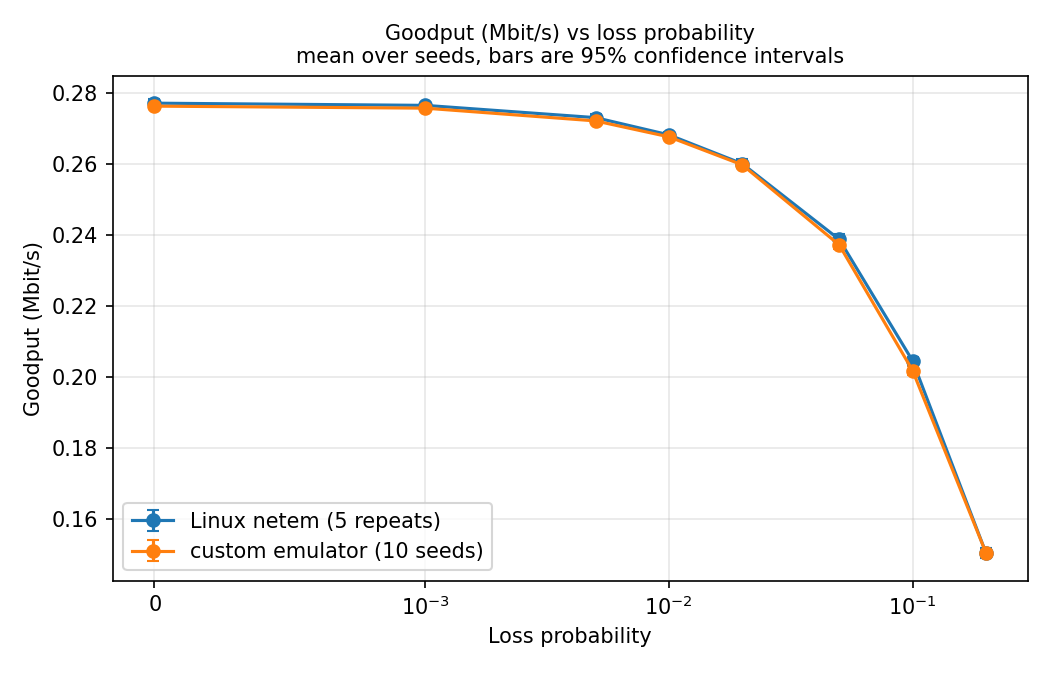
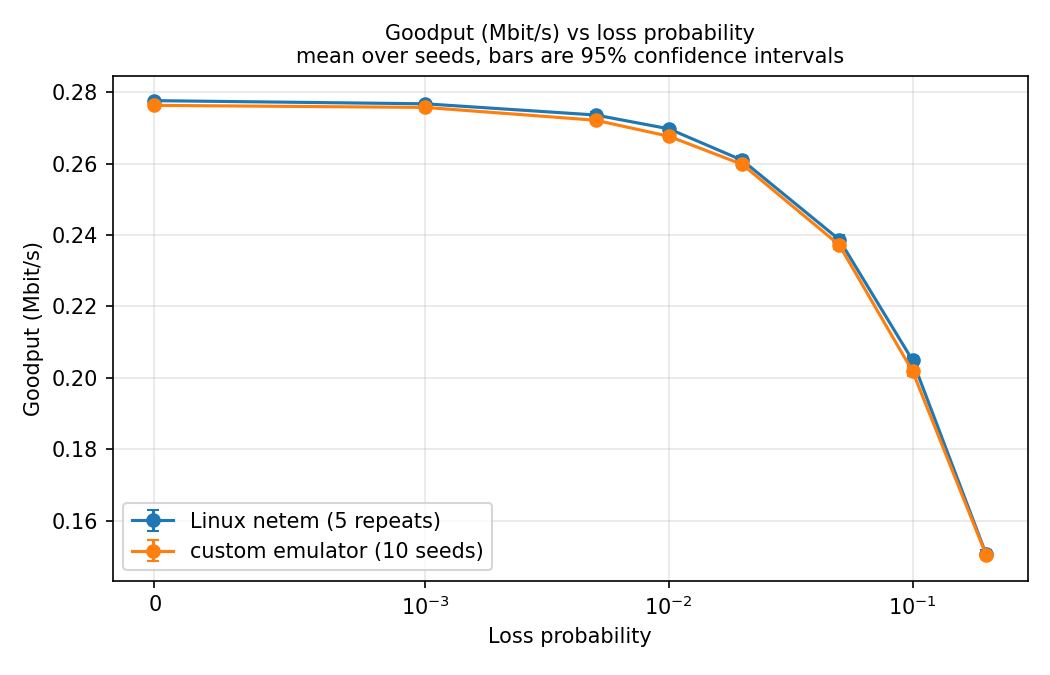
Regenerate the netem validation on the final build; update 3.10 and 4.5
The first netem run used a build from before #36, so data_sent, wire_bytes
and throughput_bps were wrong in all 40 rows. Rerun on 2a75718, the build
behind every other result: all 40 ok, data_sent = 5,992 + retransmissions.
Our emulator is within 1.5% of netem at every loss level, systematically
~0.5% slower; 95% intervals overlap at 3 of 8 levels. Sections 3.10 and
4.5 and figure 5 updated, plus Sohini's review points on chapter 4.

diff --git a/report/results.md b/report/results.md
@@ -21,7 +21,7 @@ $\pm5$ ms jitter, and 10 seeds per experimental cell. Plotted centres are
 arithmetic means of successful runs; error bars show two-sided **95%
 confidence intervals** using Student's $t$ distribution. Failed and corrupt
 runs were excluded and rerun. All reported results use the corrected-emulator
-datasets.
+datasets. All 890 final experiment runs completed with status `ok` and matching sent and received files (`file_match` true), so no run was excluded from the figures.
 
 ## 4.1 Experiment 1: goodput versus packet loss
 
@@ -51,7 +51,7 @@ and ACK-loss effects. The loss levels were 0, 0.1, 0.5, 1, 2, 5, 10, and 20%.
 
 ![Figure 1: Mean goodput versus loss](../figures/fig1_goodput_vs_loss.png)
 
-*Figure 1. Mean goodput of Stop-and-Wait, GBN, and SR against configured packet
+*Figure 1. Experiment 1 ($W = 32$, `fixed:1.5`, 8 MiB, delay 20 ms ± 5 ms). Mean goodput of Stop-and-Wait, GBN, and SR against configured packet
 loss, with $W=32$ for the windowed protocols. Error bars show 95% confidence
 intervals over 10 successful seeds per point.*
 
@@ -99,7 +99,7 @@ from a larger window. The tested window sizes were 1, 2, 4, 8, 16, 32,
 
 ![Figure 2: Mean goodput versus window size](../figures/fig2_goodput_vs_window.png)
 
-*Figure 2. Mean GBN and SR goodput versus $W$, separately at 1% and 5% loss.
+*Figure 2. Experiment 2 (loss 1% and 5%, `fixed:1.5`). Mean GBN and SR goodput versus $W$, separately at 1% and 5% loss.
 Error bars show 95% confidence intervals over 10 successful seeds per point.*
 
 **Results and discussion.** Experiment 2 investigated the effect of window size on GBN and SR's performance at 1% and 5% packet loss (Figure 2). With a window size of one both behaved like Stop-and-Wait, achieving approximately 0.27 Mbit/s at 1% loss. That confirmed correctness because neither windowed protocol could have more than one unacknowledged packet outstanding. Increasing the window initially improved goodput for both protocols by allowing multiple packets to remain in flight. The ideal reference goodput was calculated using W × 1,400 bytes × 8 / 41 ms, representing the maximum application-data rate possible with a given window and reference RTT, without loss-affected delays.
@@ -137,7 +137,7 @@ count should rise less sharply. The tested reorder probabilities were
 
 ![Figure 3: Retransmissions versus reordering](../figures/fig3_retx_vs_reorder.png)
 
-*Figure 3. Mean retransmission count for Stop-and-Wait, GBN, and SR versus
+*Figure 3. Experiment 3 (no loss, $W = 32$, `fixed:1.5`); symmetric-log axis. Mean retransmission count for Stop-and-Wait, GBN, and SR versus
 configured reordering probability, with $W=32$ for GBN and SR. Error bars
 show 95% confidence intervals over 10 successful seeds per point.*
 
@@ -174,29 +174,29 @@ release loop added around 2 ms per round trip, enough to influence the
 
 ![Figure 4: RTO policy and retransmissions](../figures/fig4_retx_vs_rto.png)
 
-*Figure 4. Mean total retransmissions by RTO policy for Stop-and-Wait, GBN,
+*Figure 4. Experiment 4 (2% loss, $W = 32$). Mean total retransmissions by RTO policy for Stop-and-Wait, GBN,
 and SR at 2% loss. Error bars show 95% confidence intervals over 10 successful
 seeds per point.*
 
-**Results and discussion.** Experiment 4 compared fixed and adaptive retransmission timeout policies under 2% packet loss (Figure 4). Retransmissions were classified using emulator traces into necessary retransmissions, early-timer retransmissions, lost-ACK retransmissions and retransmissions occurring after the relevant ACK had arrived. Necessary retransmissions represented packets which required recovery, and lost-ACK retransmissions occurred because the sender had not received the acknowledgement confirming successful delivery. Early-timer retransmissions occurred when the original transmission had succeeded, but the timeout expired before its ACK arrived. The additional after-ACK cases were associated with near-simultaneous timer and ACK processing, often separated by fractions of a millisecond, and were included when measuring RTO-related overhead. The table reports early-timer counts with these after-ACK cases included in parentheses.
+**Results and discussion.** Experiment 4 compared fixed and adaptive retransmission timeout policies under 2% packet loss (Figure 4). Retransmissions were classified using emulator traces into necessary retransmissions, early-timer retransmissions, lost-ACK retransmissions and retransmissions occurring after the relevant ACK had arrived. The `spurious.py` script replayed each emulator trace and, for every retransmission, identified which packet copy the receiver actually accepted. It then checked whether a covering ACK had been sent and was still in flight, had been sent and subsequently dropped, or had never been sent; the `ACK lost` category was assigned only when a covering ACK had been sent and dropped. Necessary retransmissions represented packets which required recovery, and lost-ACK retransmissions occurred because the sender had not received the acknowledgement confirming successful delivery. Early-timer retransmissions occurred when the original transmission had succeeded, but the timeout expired before its ACK arrived. The additional after-ACK cases were associated with near-simultaneous timer and ACK processing, often separated by fractions of a millisecond, and were included when measuring RTO-related overhead. The table reports early-timer counts with these after-ACK cases included in parentheses.
 
 | Protocol | Policy | Goodput | Early timer (+ after ACK) | ACK lost | Necessary |
 |---|---|---:|---:|---:|---:|
 | S&W | fixed:1.2 | 262 kbit/s | 130 (+34) | 129 | 123 |
 | S&W | fixed:1.5 / 2 / 3 | 260 / 255 / 246 kbit/s | 0 | 128 | 123 |
-| S&W | adaptive | 261 kbit/s | 20 (+3) | 128 | 123 |
-| GBN | fixed:1.2 | 5.17 Mbit/s | 3,035 (+358) | 2 | 3,742 |
-| GBN | fixed:1.5 | 4.32 Mbit/s | 60 | 2 | 5,282 |
-| GBN | fixed:3 | 2.62 Mbit/s | 16 | 0 | 5,314 |
-| GBN | adaptive | 4.63 Mbit/s | 690 (+55) | 2 | 4,974 |
+| S&W | adaptive | 261 kbit/s | 19 (+3) | 128 | 123 |
+| GBN | fixed:1.2 | 5.17 Mbit/s | 3,026 (+358) | 11 | 3,742 |
+| GBN | fixed:1.5 | 4.32 Mbit/s | 55 | 7 | 5,282 |
+| GBN | fixed:3 | 2.62 Mbit/s | 0 | 16 | 5,314 |
+| GBN | adaptive | 4.63 Mbit/s | 675 (+55) | 17 | 4,974 |
 | SR | fixed:1.2 | 5.21 Mbit/s | 1,440 (+336) | 132 | 123 |
 | SR | fixed:1.5 | 4.86 Mbit/s | 0 | 128 | 123 |
 | SR | fixed:3 | 3.24 Mbit/s | 0 | 128 | 123 |
 | SR | adaptive | 4.59 Mbit/s | 57 (+27) | 127 | 123 |
 
-The results partially confirmed the prediction that adaptive RTO would reduce unnecessary retransmissions. Compared with the aggressive `fixed:1.2` policy, adaptive RTO substantially reduced early-timer events: from 130 to 20 for S&W, 3,035 to 690 for GBN, and 1,440 to 57 for SR, excluding the separately reported after-ACK cases. However, adaptive RTO did not always outperform every fixed policy on this measure. The more conservative `fixed:1.5` and `fixed:3` policies produced few or no early-timer retransmissions, but at the cost of longer recovery delays which reduced goodput. Lost-ACK retransmissions were relatively stable across policies for S&W and SR (about 128 per run) because changing the timeout could not recover a missing acknowledgement without retransmission. GBN's much larger necessary-retransmission counts were due to its receiver discarding out-of-order packets, forcing later packets to be retransmitted even if their original copies had reached the receiver.
+The results partially confirmed the prediction that adaptive RTO would reduce unnecessary retransmissions. Compared with the aggressive `fixed:1.2` policy, adaptive RTO substantially reduced early-timer events: from 130 to 19 for S&W, 3,026 to 675 for GBN, and 1,440 to 57 for SR, excluding the separately reported after-ACK cases. However, adaptive RTO did not always outperform every fixed policy on this measure. The more conservative `fixed:1.5` and `fixed:3` policies produced few or no early-timer retransmissions, but at the cost of longer recovery delays which reduced goodput. Lost-ACK retransmissions were relatively stable across policies for S&W and SR (about 128 per run) because changing the timeout could not recover a missing acknowledgement without retransmission. GBN's much larger necessary-retransmission counts were due to its receiver discarding out-of-order packets, forcing later packets to be retransmitted even if their original copies had reached the receiver.
 
-The shortest timeout still delivered the highest goodput for all three protocols, for example 5.21 Mbit/s with SR's `fixed:1.2` compared with 4.86 Mbit/s at `fixed:1.5` and 3.24 Mbit/s at `fixed:3`. The longer timeout prevented premature retransmissions but delayed recovery from genuine losses, with about 33% lower goodput at `fixed:3` than at `fixed:1.5`. Adaptive RTO provided an intermediate trade-off with neither the highest goodput nor the fewest unnecessary retransmissions. The correction to the emulator had also materially changed these results: S&W at `fixed:1.2` produced 416 retransmissions with the corrected emulator, compared with 645 previously, and so approximately 230 of the earlier retransmissions were associated with emulator scheduling lateness. These results illustrate that preferred RTO policy depends on whether the goal is maximum useful-data rate or reduced retransmission overhead.
+The shortest timeout still delivered the highest goodput for all three protocols, for example 5.21 Mbit/s with SR's `fixed:1.2` compared with 4.86 Mbit/s at `fixed:1.5` and 3.24 Mbit/s at `fixed:3`. At `fixed:1.2`, the RTO was 48 ms, below the maximum unimpeded RTT of 50 ms, so legitimate exchanges could trigger premature timeouts that adaptive RTO could reduce. By contrast, the fixed policies from `fixed:1.5` to `fixed:3` used 60–120 ms timeouts, already above the maximum unimpeded RTT, leaving few early retransmissions for adaptive RTO to eliminate; their main cost was slower recovery from genuine losses. The longer timeout prevented premature retransmissions but delayed recovery from genuine losses, with about 33% lower goodput at `fixed:3` than at `fixed:1.5`. Adaptive RTO provided an intermediate trade-off with neither the highest goodput nor the fewest unnecessary retransmissions. The correction to the emulator had also materially changed these results: S&W at `fixed:1.2` produced 416 retransmissions with the corrected emulator, compared with 645 previously, and so approximately 230 of the earlier retransmissions were associated with emulator scheduling lateness. These results illustrate that preferred RTO policy depends on whether the goal is maximum useful-data rate or reduced retransmission overhead.
 
 ## 4.5 Validation against Linux netem
 
@@ -207,22 +207,22 @@ replay and records the preliminary timing diagnosis. The final comparison uses t
 
 ![Figure 5: Linux netem validation](../figures/fig5_emulator_vs_netem.png)
 
-*Figure 5. Mean Stop-and-Wait goodput versus packet loss, comparing the custom
+*Figure 5. Validation (Stop-and-Wait, delay 20 ms ± 5 ms, same loss levels as experiment 1). Mean Stop-and-Wait goodput versus packet loss, comparing the custom
 emulator with Linux `netem`. Error bars show 95% confidence intervals; the
 Linux `netem` data use five seeded repeats per loss level; the custom
 emulator uses ten seeds per loss level.*
 
-**Results and discussion.** As shown in Figure 5, the custom channel emulator was independently tested against Linux `netem` by comparing Stop-and-Wait goodput across eight packet-loss levels. The custom emulator used ten seeds per level, and netem used five repetitions. Each dataset was summarised with its mean and 95% Student's t confidence interval (critical values: 2.262 and 2.776 respectively). This tested if two separately implemented sources of impairment yielded similar trends of performance on equivalent nominal network conditions. The means between different implementations did not differ by more than approximately 1.3% over the entire loss range.
+**Results and discussion.** As shown in Figure 5, the custom channel emulator was independently tested against Linux `netem` by comparing Stop-and-Wait goodput across eight packet-loss levels, with a 20 ms delay and ±5 ms jitter in each direction. The custom emulator used ten seeds per level, and netem used five seeded repetitions. Each dataset was summarised with its mean and 95% Student's t confidence interval (critical values: 2.262 and 2.776 respectively). For each loss level, the relative gap was calculated as (emulator mean − netem mean) / netem mean using the Stop-and-Wait goodput values. This tested whether two separately implemented sources of impairment yielded similar performance trends under equivalent nominal network conditions. The mean goodput values differed by no more than 1.5% across the full loss range. The netem dataset was regenerated on the same build used for the other results after a review identified stale counters in the earlier validation run.
 
 | Loss | Custom emulator (kbit/s) | Linux netem (kbit/s) | Relative gap | 95% CIs overlap |
 |---|---:|---:|---:|---|
-| 0% | 276.3 ± 0.6 | 277.1 ± 1.2 | −0.3% | Yes |
-| 0.1% | 275.7 ± 0.3 | 276.5 ± 0.4 | −0.3% | No |
-| 0.5% | 272.1 ± 0.3 | 273.0 ± 1.0 | −0.3% | Yes |
-| 1% | 267.6 ± 0.5 | 268.2 ± 0.9 | −0.2% | Yes |
-| 2% | 259.7 ± 0.6 | 260.1 ± 1.3 | −0.1% | Yes |
-| 5% | 237.2 ± 1.0 | 238.8 ± 1.6 | −0.6% | Yes |
-| 10% | 201.8 ± 1.3 | 204.6 ± 1.1 | −1.3% | No |
-| 20% | 150.6 ± 0.9 | 150.5 ± 1.4 | +0.0% | Yes |
+| 0% | 276.3 ± 0.6 | 277.6 ± 0.5 | −0.5% | No |
+| 0.1% | 275.7 ± 0.3 | 276.7 ± 0.5 | −0.4% | No |
+| 0.5% | 272.1 ± 0.3 | 273.6 ± 0.8 | −0.5% | No |
+| 1% | 267.6 ± 0.5 | 269.7 ± 0.6 | −0.8% | No |
+| 2% | 259.7 ± 0.6 | 260.9 ± 1.2 | −0.4% | Yes |
+| 5% | 237.2 ± 1.0 | 238.7 ± 1.4 | −0.6% | Yes |
+| 10% | 201.8 ± 1.3 | 204.9 ± 1.3 | −1.5% | No |
+| 20% | 150.6 ± 0.9 | 150.8 ± 1.1 | −0.1% | Yes |
 
-The confidence intervals overlapped at six of the eight levels of loss, thus confirming general statistical consistency between the two implementations. At 0.1% loss the intervals did not overlap, but the means differed by only approximately 0.3%, because the narrow intervals highlighted the small systematic overhead of an extra process hop of the custom emulator. The wider intervals at 10% loss also did not overlap, and netem achieved around 1.3% higher goodput. We report this difference as observed, without claiming a cause we have not verified. Before the emulator timing correction the two implementations had differed by around 2-5% across loss levels; the corrected results were substantially closer. The close agreement of the goodput curves in Figure 5 therefore raised confidence in the custom emulator's measurements; but the two non-overlapping intervals showed that the implementations were not statistically identical under all conditions.
+The 95% confidence intervals overlapped at three of the eight loss levels, although the mean goodput values were within 0.1–1.5% of one another throughout. The custom emulator was systematically slower, typically by about 0.5%, consistent with the approximately 0.4 ms additional round-trip overhead of its separate process hop identified in Section 3.10. The narrow confidence intervals made this small absolute difference visible at several loss levels. However, the response to increasing packet loss followed nearly the same shape in both setups, and the curves in Figure 5 lie close together. This agreement in the loss-response pattern supports the custom emulator's loss model, even though the two implementations were not statistically identical in absolute goodput. Its slightly lower absolute values are conservative, while comparisons among S&W, GBN and SR remain on a common basis because each protocol was tested through the same emulator.

diff --git a/report/methodology.md b/report/methodology.md
@@ -95,4 +95,4 @@ To validate the custom emulator independently, `netem_validate.py` ran the same 
 
 In the initial comparison, the custom emulator produced goodput about 2–5% below Linux `netem`, with the largest gap at low loss (4.7% at 0% loss, falling to 1.7% at 20% loss). This pattern supported a fixed-latency explanation rather than a disagreement in the loss model: the extra approximately 2 ms per packet exchange made up a smaller percentage of total transfer time as packet loss added longer timeout waits. A timing investigation traced this additional round-trip delay to whole-millisecond rounding in the emulator's original release loop. After separating packet reception from release, a shorter 2 MiB validation transfer measured 40.77 ms per packet with the custom emulator, compared with 40.4 ms using Linux `netem`: a gap of about 0.9%, consistent with the extra process hop. The response to loss also had the same shape. At 5% loss, both setups retained approximately 86% of their respective loss-free goodput.
 
-After the corrected-emulator rerun, the mean goodput was within 1.3% of Linux `netem` at every tested loss level, and the 95% confidence intervals overlapped at six of the eight levels. Section 4.5 and Figure 5 present the final per-level comparison and discuss the two non-overlapping intervals.
+After the corrected-emulator rerun, the mean goodput was within 1.5% of Linux `netem` at every tested loss level, and the 95% confidence intervals overlapped at three of the eight levels. The custom emulator was typically about 0.5% slower in absolute goodput, consistent with the additional process-hop overhead identified in the timing investigation, while its goodput response to increasing loss closely matched that of `netem`. Section 4.5 and Figure 5 present the final per-level comparison.
